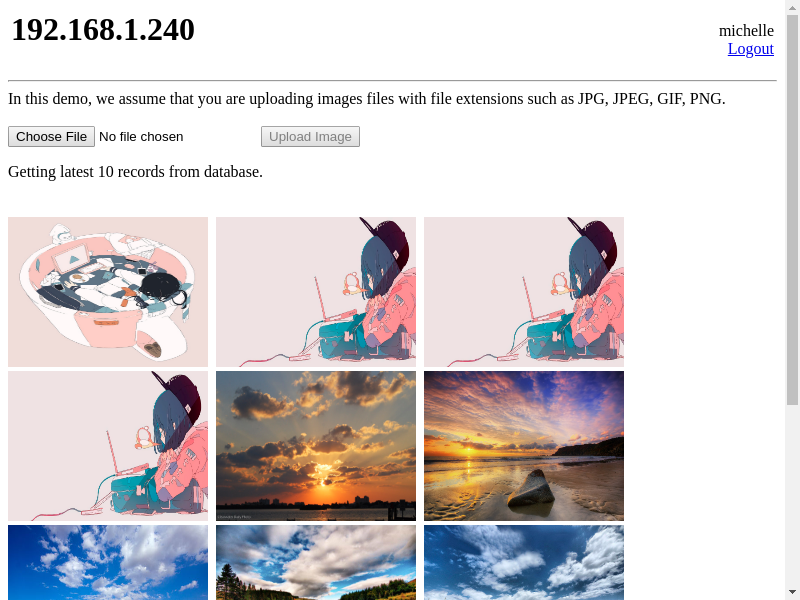
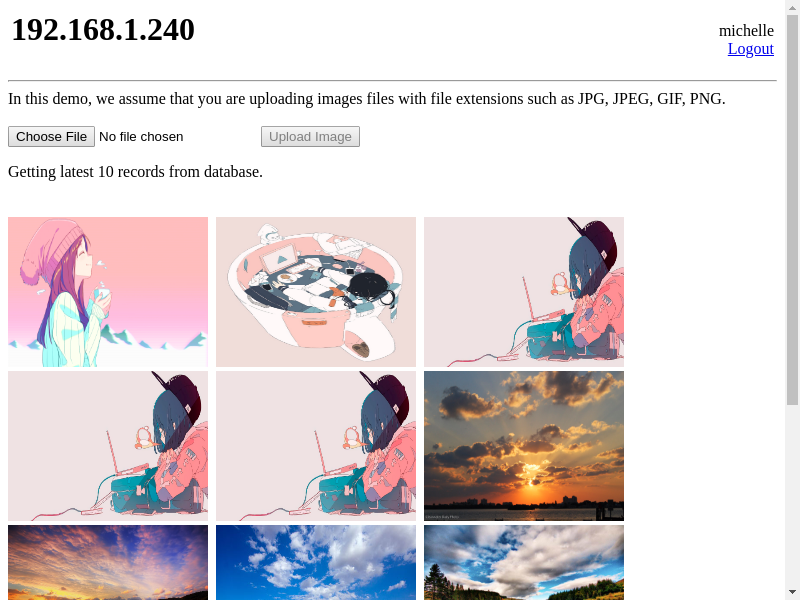
added function to upload images

diff --git a/selenium_test.java b/selenium_test.java
@@ -13,7 +13,8 @@ import org.openqa.selenium.WebElement;
 public class selenium_test {
  
         public static void main(String[] args) throws IOException, InterruptedException {
-                System.setProperty("webdriver.chrome.driver", "/usr/bin/chromedriver");
+                
+		System.setProperty("webdriver.chrome.driver", "/usr/bin/chromedriver");
                 ChromeOptions chromeOptions = new ChromeOptions();
                 chromeOptions.addArguments("--headless");
                 chromeOptions.addArguments("--no-sandbox");
@@ -25,8 +26,9 @@ public class selenium_test {
                 Thread.sleep(1000);
 		
 		login(driver);
+		uploadfile(driver);
 		screenshot(driver);
-
+		
                 driver.quit();
         }
 
@@ -47,16 +49,27 @@ public class selenium_test {
 	}
 
 	public static void screenshot(WebDriver driver) {
-	
-		System.out.println("testing screenshot");
+		
 		File src = ((TakesScreenshot)driver).getScreenshotAs(OutputType.FILE);
 		try{
 			FileUtils.copyFile(src, new File("screenshot.png"));
-
+			System.out.println("screenshot captured");
 		}
 		catch (Exception e){
 			System.out.println(e.getMessage());
 		}
 
+	}
+
+	public static void uploadfile(WebDriver driver){
+		
+		System.out.println("testing upload...");
+		
+		//upload image
+		WebElement uploadElement = driver.findElement(By.id("fileToUpload"));
+		uploadElement.sendKeys("/home/mirynth/Downloads/818292.png");
+
+		//click "Upload Image" button
+		driver.findElement(By.name("submit_button")).click();
 	}
 }
